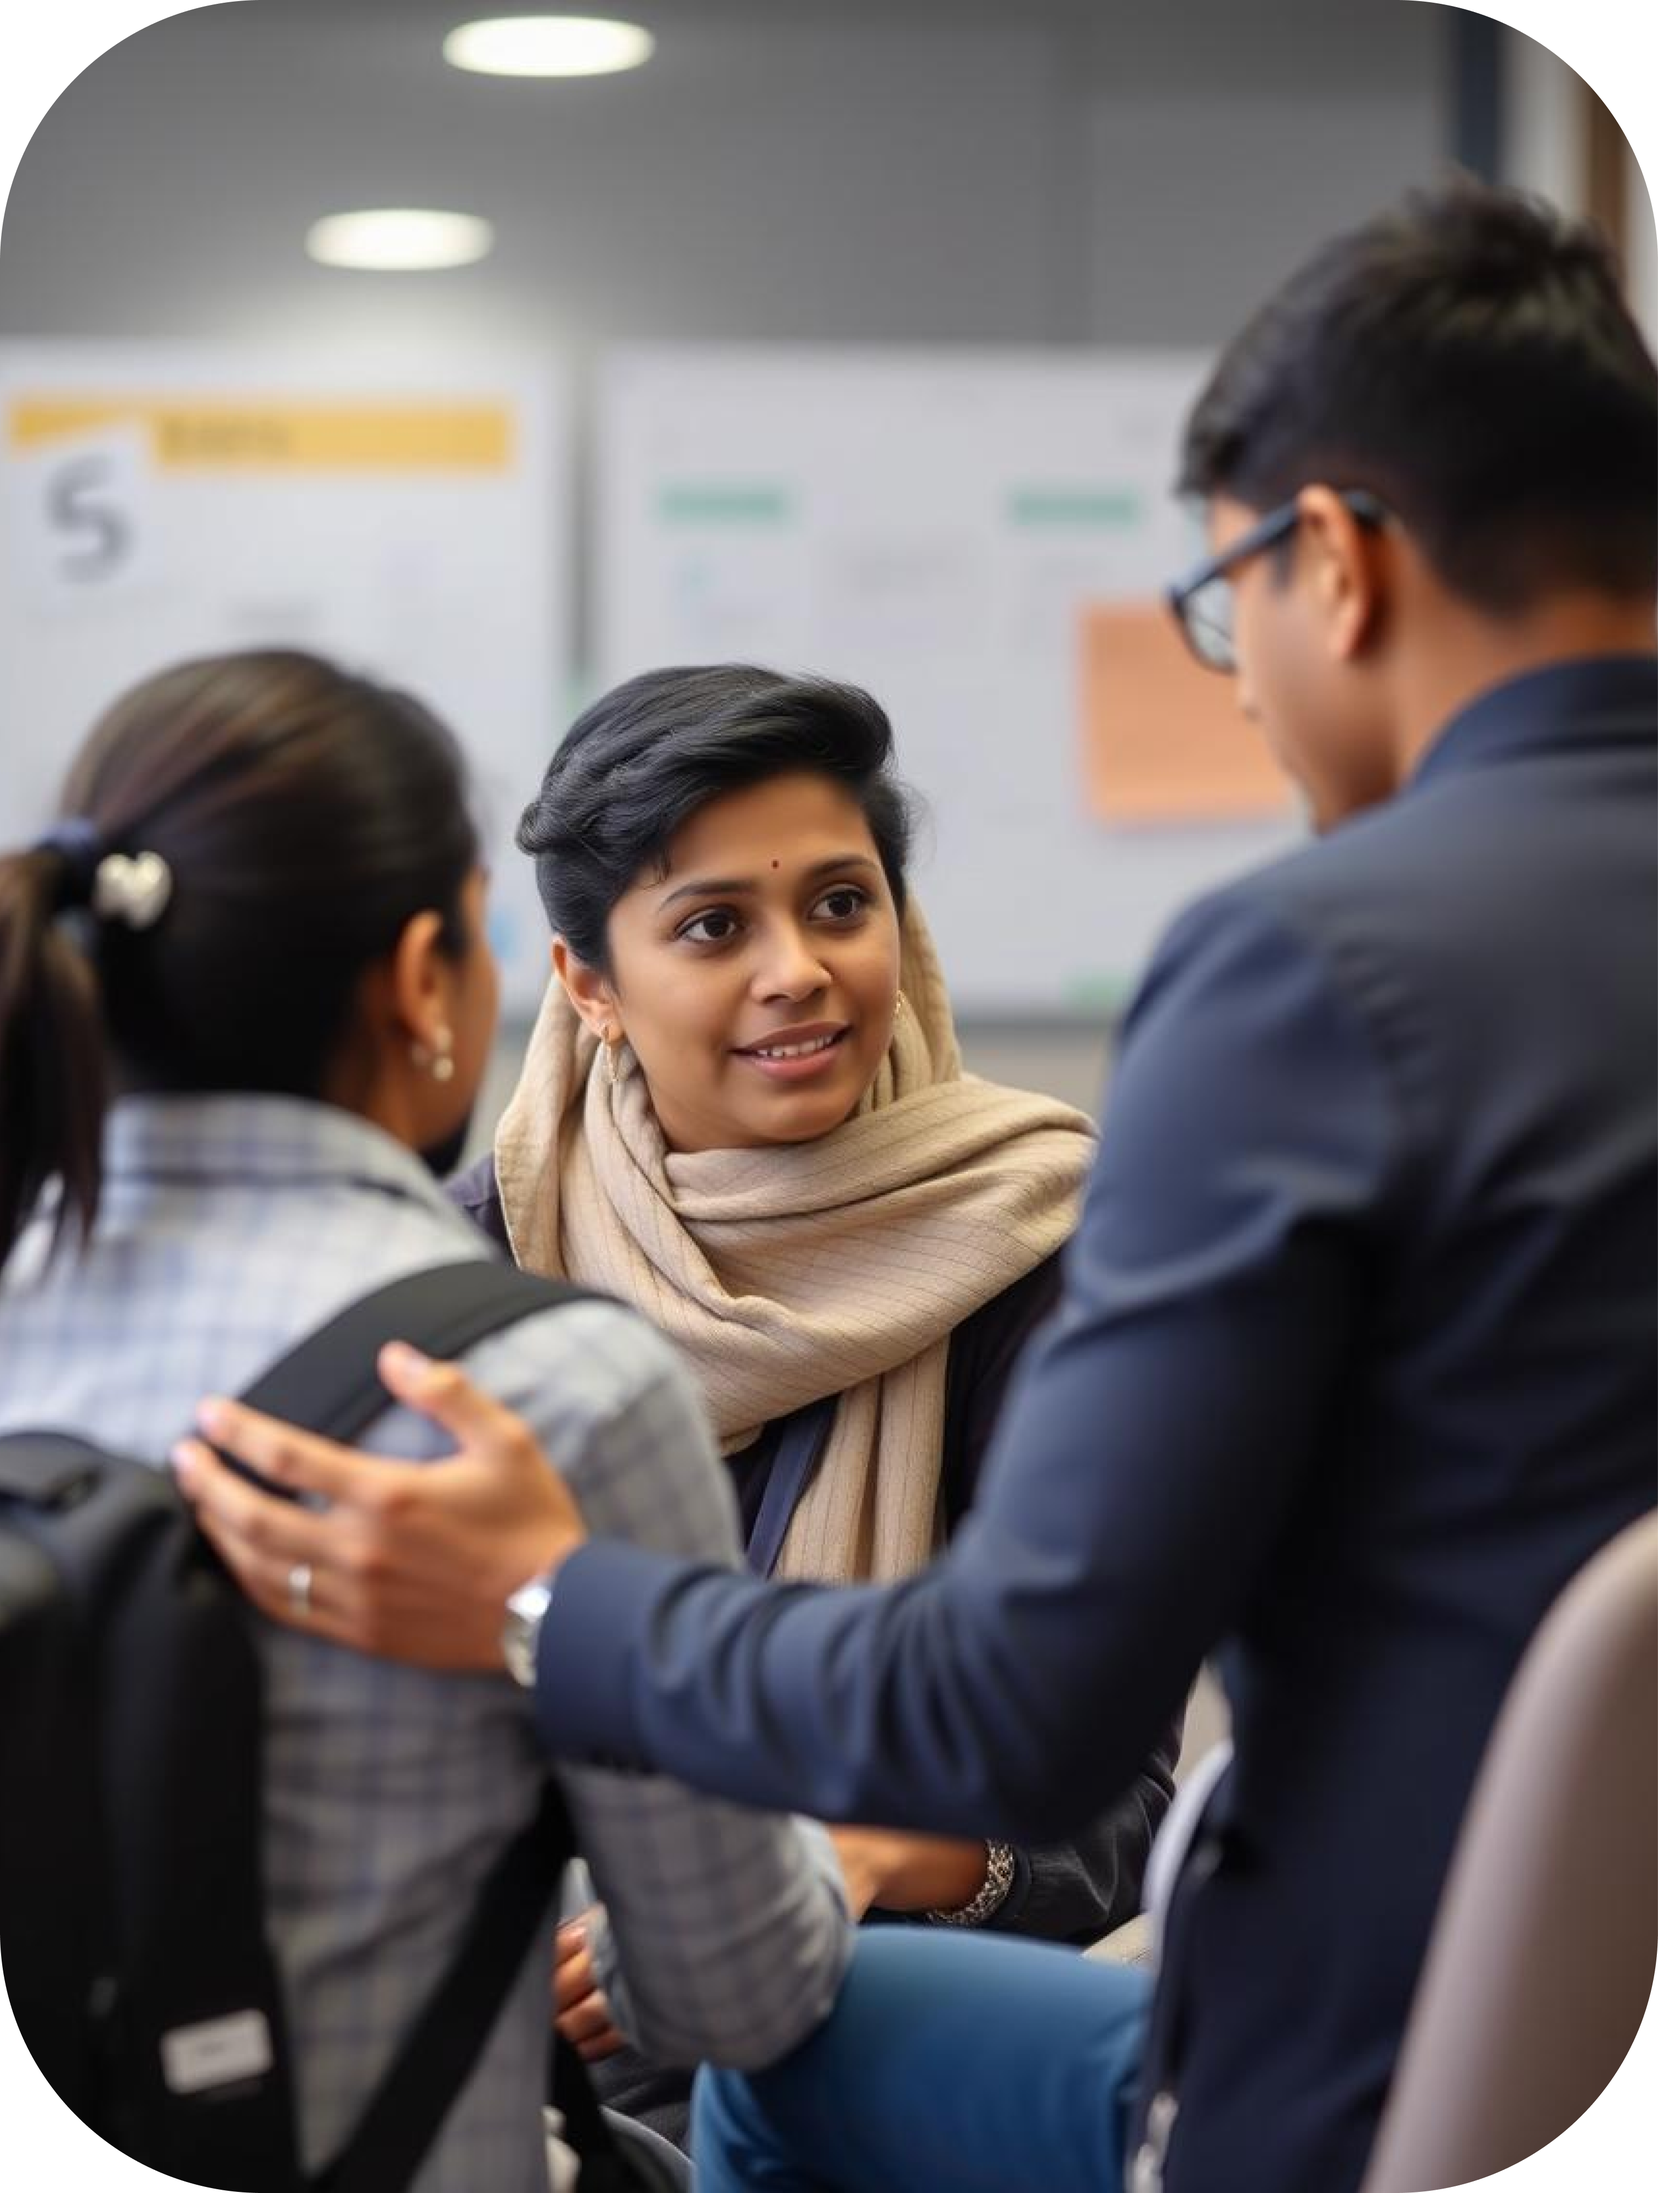
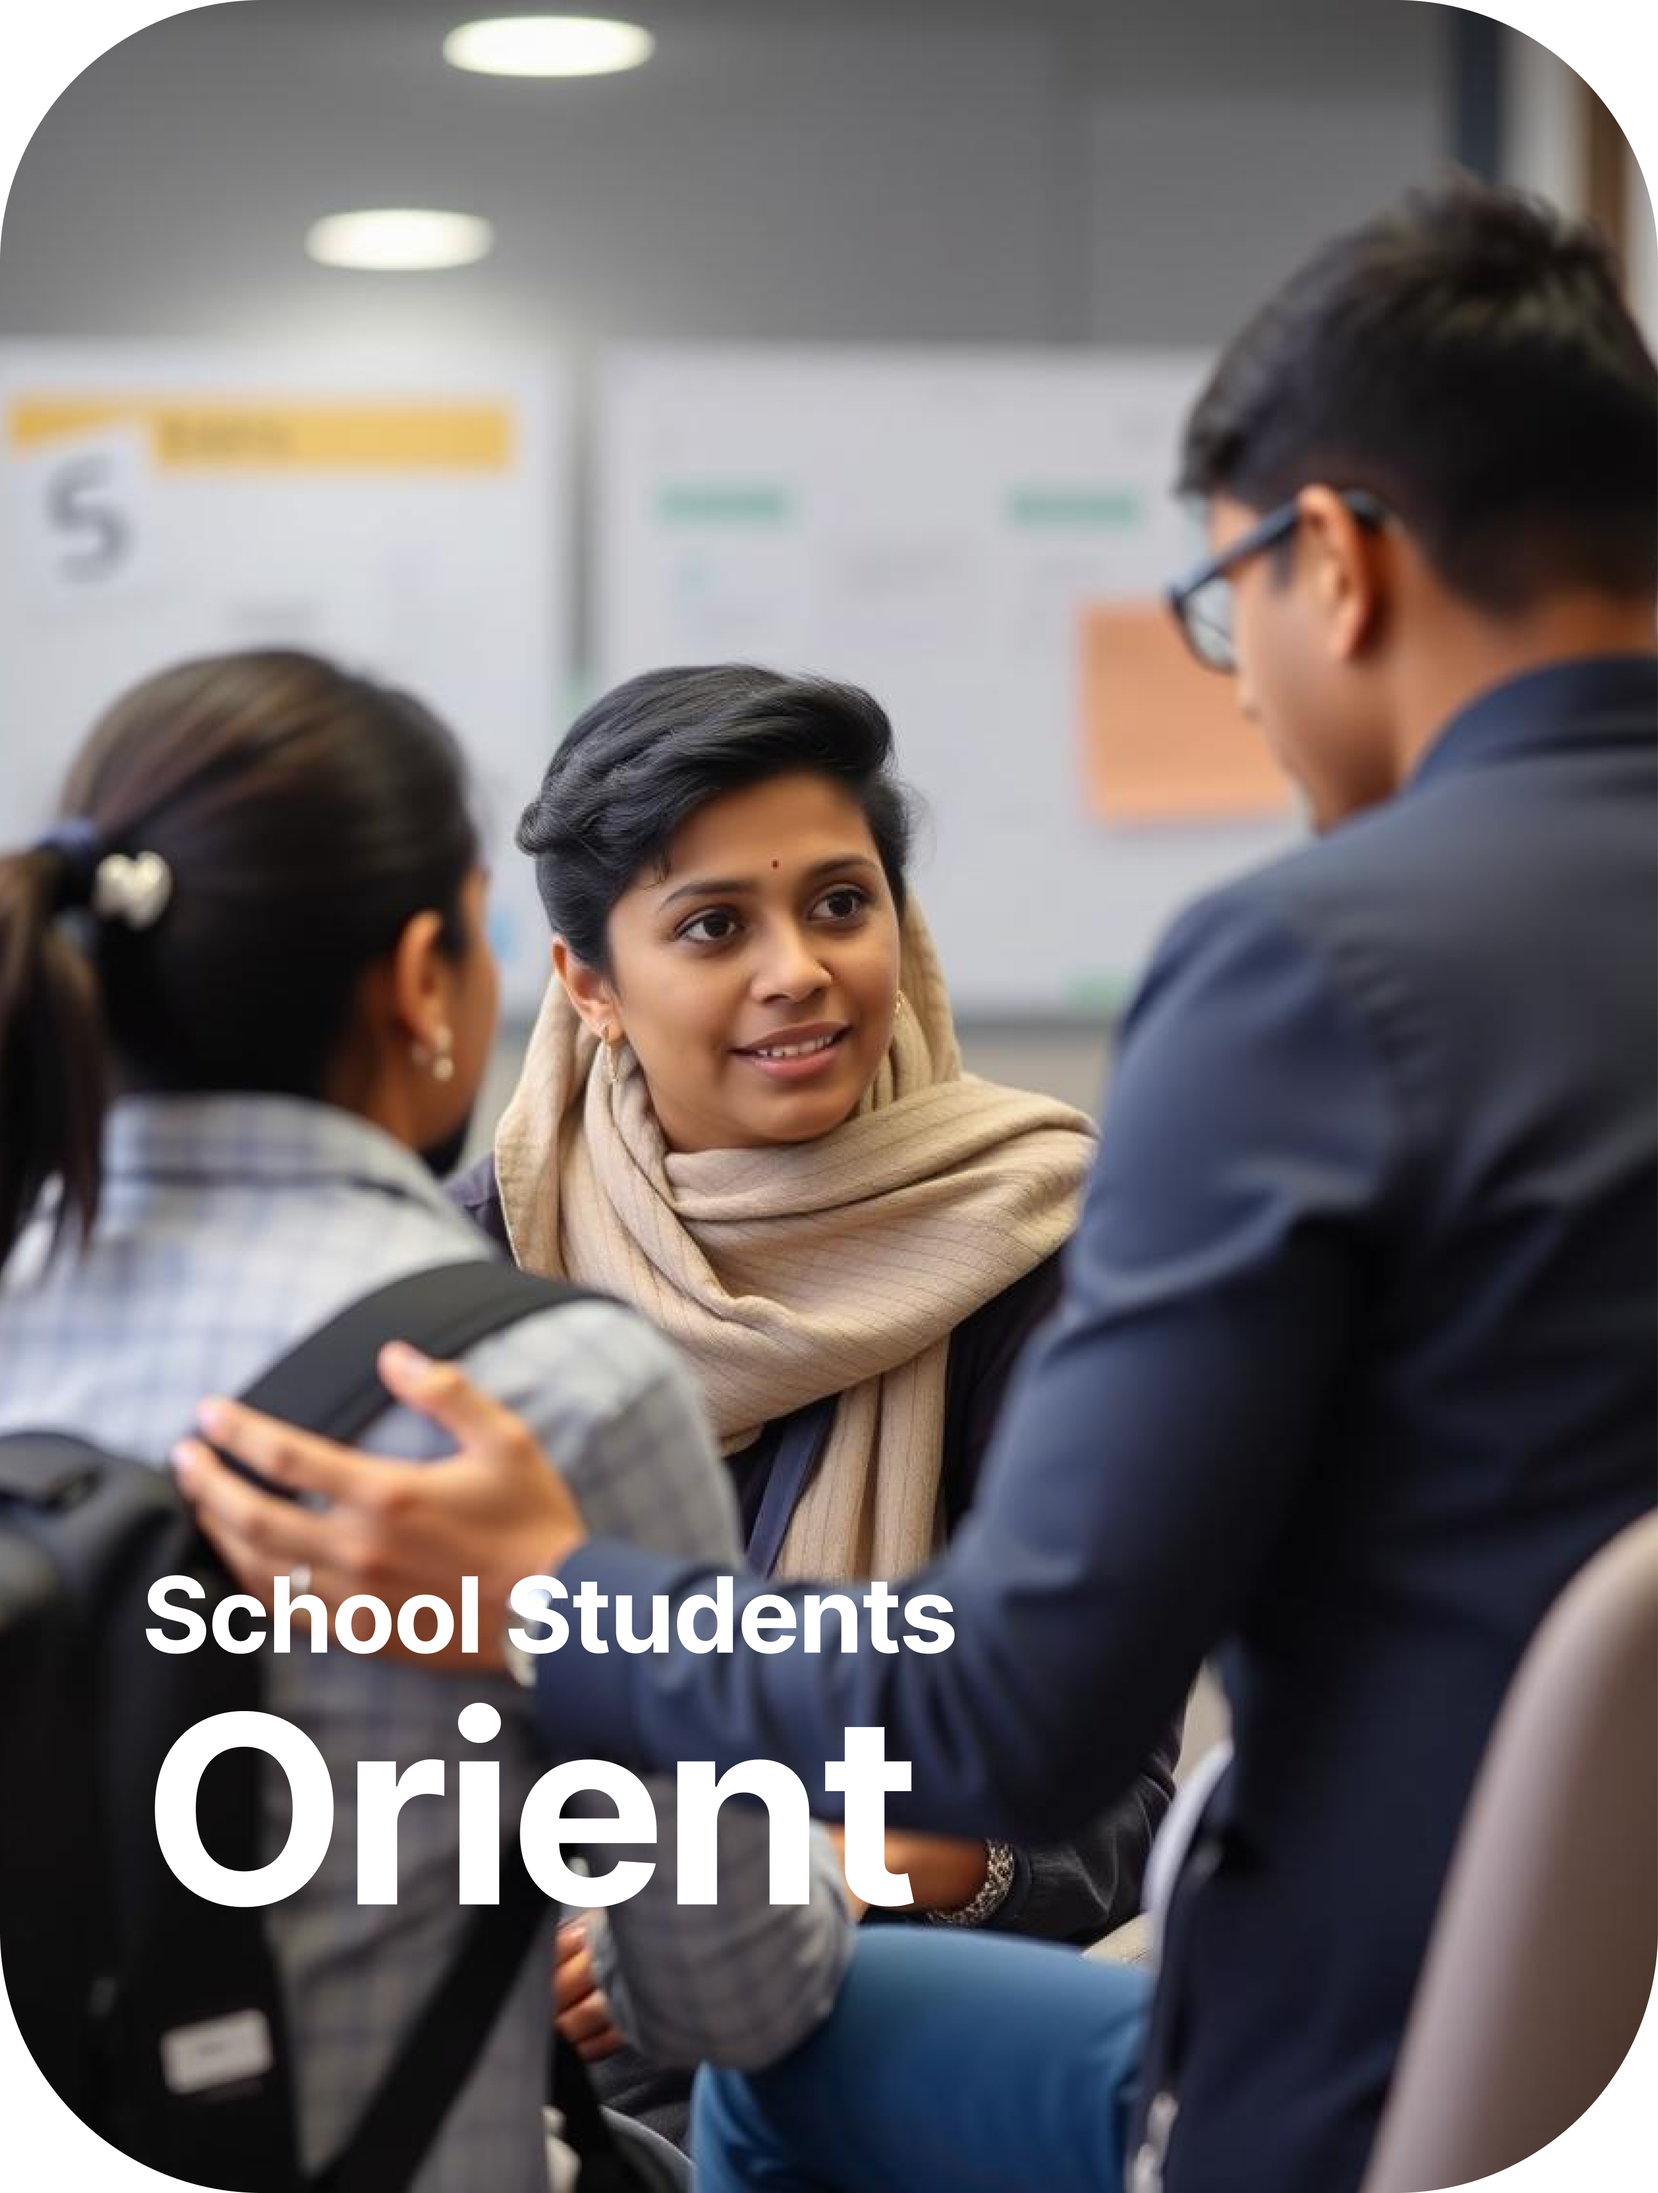
Update: Home pg, Live pg

Changed region(s): [[0.0933, 0.7188, 0.5906, 0.875]]

diff --git a/Frontend/src/pages/Live/Emerge.jsx b/Frontend/src/pages/Live/Emerge.jsx
@@ -1,6 +1,6 @@
 import { useState } from 'react';
 
-export default function Orient() {
+export default function Emerge() {
   const [visibleSection, setVisibleSection] = useState(null);
 
   const handleToggle = (section) => {
@@ -8,17 +8,11 @@ export default function Orient() {
   };
 
   return (
-    <div className='mt-32'>
-      <div className="text-center -mb-28">
-    <h2 className="text-4xl font-bold opacity-90">What We Offer?</h2>
-    
-  </div>
     <div className="flex flex-col md:flex-row items-center mt-10 md:mt-40 gap-6 p-4 sm:p-6 bg-white rounded-lg">
-
       <div className="relative w-full md:w-1/2">
         <img
-          src="/live/Orient.png"
-          alt="Orient Program"
+          src="/live/Emerge.png"
+          alt="Emerge Program"
           className="w-[300px] sm:w-[400px] h-[400px] sm:h-[550px] rounded-lg mx-auto md:ml-40"
           width="1000"
           height="1000"
@@ -26,12 +20,11 @@ export default function Orient() {
       </div>
       <div className="w-full md:w-1/2 space-y-4 md:mr-40 text-center md:text-left">
         <h2 className="text-2xl sm:text-3xl">
-          <span className="text-[#2563EB] font-bold">Orient</span> – School Students
+          <span className="text-[#2563EB] font-bold">Emerge</span> – College Grads
         </h2>
         <p className="text-[#2563EB] font-bold">Counseling & Mentorship • 8 – 12</p>
         <p className="text-gray-700">
-        One course that covers important practical concepts from All Important subjects which will make you Personally
-and Professionally ready for the future
+          College graduates with mentors have 68% higher retention rates in companies and are more likely to achieve career growth and build Professional Network.
         </p>
         <div className="space-y-2">
           <div className="flex items-center justify-between p-4 border rounded-lg">
@@ -102,7 +95,6 @@ and Professionally ready for the future
           Learn More
         </button>
       </div>
-    </div>
     </div>
   );
 }

diff --git a/Frontend/src/pages/Live/KeyFeat.jsx b/Frontend/src/pages/Live/KeyFeat.jsx
@@ -1,0 +1,45 @@
+export default function KeyFeatures() {
+    return (
+      <section className="py-8 md:py-16 md:mr-40 md:mt-20 md:ml-40 bg-white">
+        <div className="container mx-auto px-4">
+          <div className="grid grid-cols-1 md:grid-cols-2 gap-8">
+            <div className="mt-8 md:mt-24">
+              <h2 className="text-2xl md:text-3xl font-bold text-gray-900">
+                Key Features
+              </h2>
+              <p className="mt-4 text-base md:text-lg text-gray-600">
+                Our portal offers a comprehensive suite of features to help you ace your government exams.
+              </p>
+            </div>
+            <div className="space-y-6 md:space-y-8">
+              <div>
+                <h3 className="text-lg md:text-xl font-semibold text-gray-900">
+                  Adaptive Tests
+                </h3>
+                <p className="mt-2 text-sm md:text-base text-gray-600">
+                  Our adaptive tests adjust to your skill level, providing a personalized learning experience.
+                </p>
+              </div>
+              <div>
+                <h3 className="text-lg md:text-xl font-semibold text-gray-900">
+                  Performance Analysis
+                </h3>
+                <p className="mt-2 text-sm md:text-base text-gray-600">
+                  Track your progress and identify areas for improvement with our detailed performance analysis.
+                </p>
+              </div>
+              <div>
+                <h3 className="text-lg md:text-xl font-semibold text-gray-900">
+                  Study Material
+                </h3>
+                <p className="mt-2 text-sm md:text-base text-gray-600">
+                  Access a vast library of study material, including practice questions, video lectures, and study guides.
+                </p>
+              </div>
+            </div>
+          </div>
+        </div>
+      </section>
+    );
+  }
+  

diff --git a/Frontend/src/components/Header.jsx b/Frontend/src/components/Header.jsx
@@ -125,8 +125,8 @@ const Header = () => {
 
                         {/* Rest of your menu items */}
 
-                        <Link to="/courses" className="block py-2 px-4 font-semibold text-black hover:text-blue-600 hover:bg-gray-200 transition-colors duration-300">
-                            Courses
+                        <Link to="/Live" className="block py-2 px-4 -mb-5 font-semibold text-black hover:text-blue-600 hover:bg-gray-200 transition-colors duration-300">
+                            Live
                         </Link>
 
                         {/* Conditional Links based on isLoggedIn */}
@@ -143,16 +143,16 @@ const Header = () => {
                         )}
 
                         <Link to="/upcoming-test" className="block py-2 px-4 font-semibold text-black hover:text-blue-600 hover:bg-gray-200 transition-colors duration-300">
-                            Upcoming Test
+                            {/* Upcoming Test */}
                         </Link>
 
                         {!isLoggedIn && (
                             <>
                                 <Link to="/pricing" className="block py-2 px-4 font-semibold text-black hover:text-blue-600 hover:bg-gray-200 transition-colors duration-300">
-                                    Pricing
+                                   Learn
                                 </Link>
                                 <Link to="/support" className="block py-2 px-4 font-semibold text-black hover:text-blue-600 hover:bg-gray-200 transition-colors duration-300">
-                                    Support
+                                   Jobs
                                 </Link>
                                 <Link to="/login" className="block py-2 px-4 font-semibold text-[#2563EB] hover:text-blue-600 hover:bg-gray-200 transition-colors duration-300">
                                     Sign In

diff --git a/Frontend/src/components/Footer.jsx b/Frontend/src/components/Footer.jsx
@@ -43,7 +43,7 @@ const Footer = () => {
             alt="Brand Logo"
             className="mb-4"
           />
-          <p className="py-4 text-sm md:text-base">
+          <p className="py-4 text-sm mr-2  md:text-base">
           Our platform provides comprehensive resources and tools to help you prepare for the JEE exam with confidence.
           </p>
           <div className="flex flex-wrap gap-4">
@@ -54,7 +54,7 @@ const Footer = () => {
           </div>
         </div>
         {/* Right section with footer content organized in sections */}
-        <div className="flex  gap-20  md:flex-row md:justify-between">
+        <div className="flex  gap-20 mr-4 md:flex-row md:justify-between">
           {/* Mapping over sections and rendering content */}
           {items.filter(item => item.type === 'section').map((item, index) => (
             <div key={index} className="flex-1">

diff --git a/Frontend/src/pages/Live/Main.jsx b/Frontend/src/pages/Live/Main.jsx
@@ -1,8 +1,12 @@
 import Header from "../../components/Header";
+import Footer from "../../components/Footer";
+import Mentorship from "../landingPage/mentorship";
 import Hero from "./Hero";
 import Whyus from "./whyus";
 import OEE from "./oee";
 import Orient from "./Orient";
+import Emerge from "./Emerge";
+import KeyFeatures from "./KeyFeat";
 
 export default function Main() {
 
@@ -14,6 +18,11 @@ export default function Main() {
                 <Whyus/>
                 <OEE/>
                 <Orient/>
+                <Emerge/>
+                <KeyFeatures/>
+                <Mentorship/>
+
+                <Footer/>
             </div>
         </div>
     );

diff --git a/Frontend/src/components/live.jsx b/Frontend/src/components/live.jsx
@@ -4,7 +4,7 @@ export default function Live() {
     <div className="items-center flex justify-center ml-2 mr-2">
       <section className="py-16 mt-16 md:ml-20">
         <div className="text-center">
-          <h2 className="text-4xl font-bold opacity-90">What we Offer?</h2>
+          <h2 className="text-4xl font-bold opacity-90">What We Offer?</h2>
           <br />
           <br />
           <h3 className="mt-4 text-[25px] font-semibold text-black lg:text-left lg:ml-32">

diff --git a/Frontend/src/pages/Live/oee.jsx b/Frontend/src/pages/Live/oee.jsx
@@ -2,7 +2,7 @@
 
 export default function OEE() {
   return (
-    <div className="flex justify-center mb-20 mt-16 w-full p-4 bg-[#2563EB]">
+    <div className="flex justify-center mb-20 mt-36 w-full p-4 bg-[#2563EB]">
       <div className="flex flex-col items-center justify-center w-full max-w-6xl gap-8 md:flex-row">
         
         <div className="flex flex-col items-center justify-between w-full max-w-xs p-6 bg-white rounded-lg shadow-md">

diff --git a/Frontend/src/pages/Live/Hero.jsx b/Frontend/src/pages/Live/Hero.jsx
@@ -71,7 +71,7 @@ export default function Hero() {
             <div className="flex flex-col justify-center space-y-4">
               <img 
               src="/live/Hero.png"
-              className="h-[450px] w-[900px] hidden md:flex lg:flex rounded-lg"/>
+              className="h-[450px] w-[850px] hidden md:flex lg:flex rounded-lg"/>
             </div>
 
             <div className="flex flex-col items-center justify-center space-y-4">
